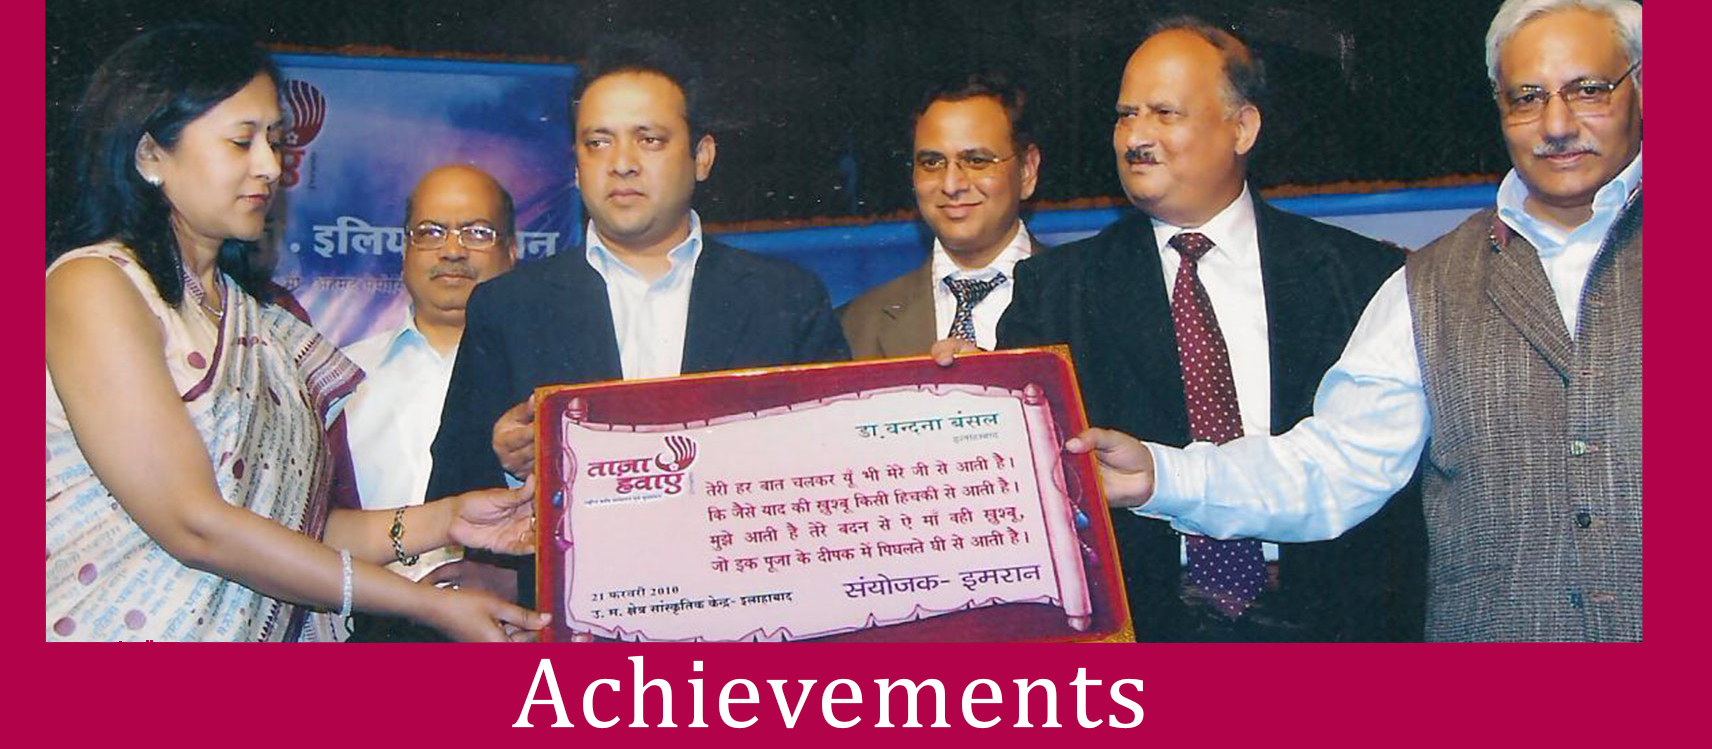
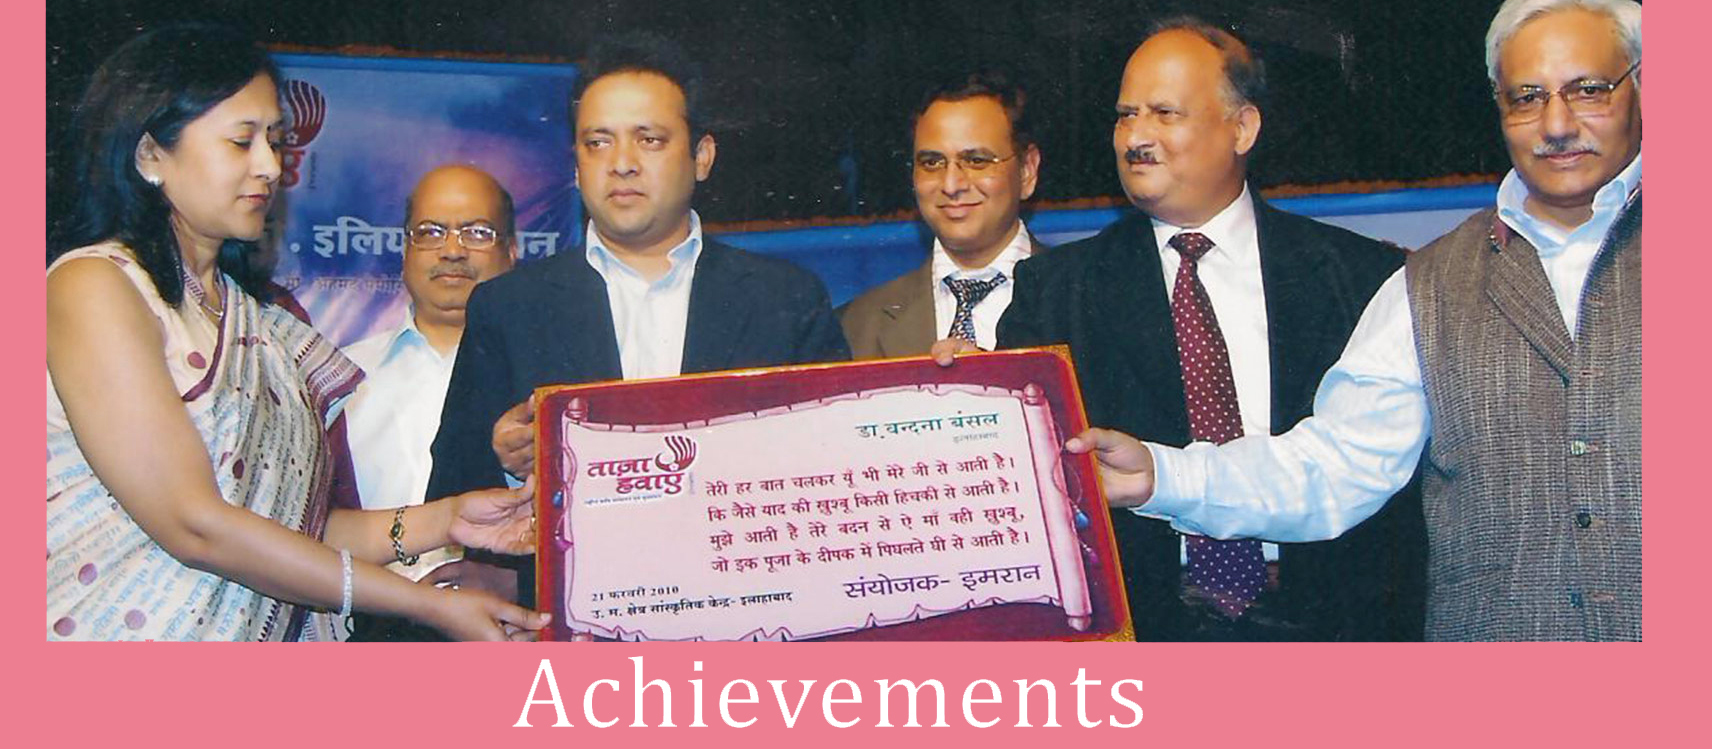
ff

Changed region(s): [[0.0, 0.0, 1.0, 1.0]]

diff --git a/src/Pages/AboutUs/OurFounders.jsx b/src/Pages/AboutUs/OurFounders.jsx
@@ -16,46 +16,46 @@ import { AiOutlineProfile } from "react-icons/ai";
 
 const OurFounders = () => {
   const [data, setdata] = useState('')
-  
-      return (
-        <div>
+
+  return (
+    <div>
       {/* <About /> */}
-       <div className="container mx-auto flex px-3 py- md:flex-row flex-col items-center">
-                          <div className="pt-5 pb-0 md:w-96 w-5/6 ">
-                              <img className=" object-cover object-center roundedxl w-96" alt="hero" src={aboutvandana} />
-                          </div>
-                          <div className="lg:flex-grow md:rounded-r-2xl my-2 md:w-1/2 py-3 pr-1 md:bg-rose-50 lg:pl-8 md:pl-8 flex flex-col md:items-start text-center md:text-left items-center ">
-                              <h1 className="title-font sm:text-3xl text-2xl md:mb-2 font-medium text-black"> Dr. Vandana Bansal
-                              </h1>
-      
-                              <div className='flex'>
-                                  <a href="https://www.instagram.com/drvandanabansal_gynaecologist/" target='_blank'>
-                              <FaInstagram className='m-2 md:text-whit text-rose-700 text-xl' />
-                                  </a>
-                              <a href="https://www.facebook.com/vandana.bansal.33" target='_blank'>
-                              <FaFacebook className='m-2 md:text-whie text-rose-700 text-xl'/>
-                              </a>
-                              <a href="https://www.youtube.com/@DrVandanaBansal" target='_blank'>
-                              <FaYoutube className='m-2 md:text-whie text-rose-700 text-xl'/>
-                              </a>
-                              <a href="https://www.linkedin.com/in/dr-vandana-bansal-5916279b/" target='_blank'>
-                              <FaLinkedinIn className='m-2 md:text-wite text-rose-700 text-xl' />
-                              </a>
-                              </div>
-      
-                              <p className="mb-8 md:text-left text-sm leading-relaxed text-black font-semibold text-justify"> DR. VANDANA BANSAL – MBBS, DGO, MS, D.Phil (Gold Medalist) FCGP is one of the renowned and Senior Gynaecologists and Obstetricians of the state of Uttar Pradesh. She is specialized in Laparoscopy and Hysteroscopic Surgery – since 18 years. Besided, she is Director of 500-bedded, multi-speciality Jeevan Jyoti Hospital, Arpit Test Tube Baby Centre & Vandana Women’s Hospital Allahabad. Jeevan Jyoti Hospital has completed 25th years in Oct-2013 Silver Jubilee celebration. <span className='text-rose-700'> know more </span></p>
-                              {/* <div className="flex justify-center">
+      <div className="container mx-auto flex px-3 py- md:flex-row flex-col items-center">
+        <div className="pt-5 pb-0 md:w-96 w-5/6 ">
+          <img className=" object-cover object-center roundedxl w-96" alt="hero" src={aboutvandana} />
+        </div>
+        <div className="lg:flex-grow md:rounded-r-2xl my-2 md:w-1/2 py-3 pr-1 md:bg-rose-50 lg:pl-8 md:pl-8 flex flex-col md:items-start text-center md:text-left items-center ">
+          <h1 className="title-font sm:text-3xl text-2xl md:mb-2 font-medium text-black"> Dr. Vandana Bansal
+          </h1>
+
+          <div className='flex'>
+            <a href="https://www.instagram.com/drvandanabansal_gynaecologist/" target='_blank'>
+              <FaInstagram className='m-2 md:text-whit text-rose-700 text-xl' />
+            </a>
+            <a href="https://www.facebook.com/vandana.bansal.33" target='_blank'>
+              <FaFacebook className='m-2 md:text-whie text-rose-700 text-xl' />
+            </a>
+            <a href="https://www.youtube.com/@DrVandanaBansal" target='_blank'>
+              <FaYoutube className='m-2 md:text-whie text-rose-700 text-xl' />
+            </a>
+            <a href="https://www.linkedin.com/in/dr-vandana-bansal-5916279b/" target='_blank'>
+              <FaLinkedinIn className='m-2 md:text-wite text-rose-700 text-xl' />
+            </a>
+          </div>
+
+          <p className="mb-8 md:text-left text-sm leading-relaxed text-black font-semibold text-justify"> DR. VANDANA BANSAL – MBBS, DGO, MS, D.Phil (Gold Medalist) FCGP is one of the renowned and Senior Gynaecologists and Obstetricians of the state of Uttar Pradesh. She is specialized in Laparoscopy and Hysteroscopic Surgery – since 18 years. Besided, she is Director of 500-bedded, multi-speciality Jeevan Jyoti Hospital, Arpit Test Tube Baby Centre & Vandana Women’s Hospital Allahabad. Jeevan Jyoti Hospital has completed 25th years in Oct-2013 Silver Jubilee celebration. <span className='text-rose-700'> know more </span></p>
+          {/* <div className="flex justify-center">
                                   <Link to='bookappointment'>
                                       <button className="inline-flex text-white bg-rose-700 border-0 py-2 px-6 focus:outline-none hover:bg-rose-800 rounded text-sm">Book Appoinment</button>
                                   </Link>
                               </div> */}
-                          </div>
-                      </div>
-      <div className='flex mx-auto w-4/6 gap-2'>
+        </div>
+      </div>
+      <div className='flex flex-wrap mx-auto w-4/6 gap-2'>
 
-        <div className="w-72 m-10 text-gray-900 bg-white border border-gray-200 rounded-lg dark:bg-gray-700 dark:border-gray-600 dark:text-white">
+        <div className="md:w-72 m-10 h-fit text-gray-900 bg-white border border-gray-200 rounded-lg dark:bg-gray-700 dark:border-gray-600 dark:text-white">
           {/* {                    details.map((index, key) => ( */}
-          <button type="button" onClick={(e) => { setdata(e.target.value) }} value='introduction' className="relative inline-flex items-center w-full px-4 py-2 text-sm font-medium border-b border-gray-200 rounded-t-lg hover:bg-gray-100 hover:text-blue-700 focus:z-10 focus:ring-2 focus:ring-blue-700 focus:text-blue-700 dark:border-gray-600 dark:hover:bg-gray-600 dark:hover:text-white dark:focus:ring-gray-500 dark:focus:text-white">
+          <button type="button" onClick={(e) => { setdata(e.target.value) }} value='introduction' className="relative inline-flex items-center w-full px-4 py-2 text-sm font-medium border-b border-gray-200 rounded-t-lg hover:bg-gray-100 hover:text-rose-700 focus:z-10 focus:ring-2 focus:ring-rose-200 focus:text-rose-700 dark:border-gray-600 dark:hover:bg-gray-600 dark:hover:text-white dark:focus:ring-gray-500 dark:focus:text-white">
             <svg className="w-3 h-3 me-2.5" aria-hidden="true" xmlns="http://www.w3.org/2000/svg" fill="currentColor" viewBox="0 0 20 20">
               <path d="M10 0a10 10 0 1 0 10 10A10.011 10.011 0 0 0 10 0Zm0 5a3 3 0 1 1 0 6 3 3 0 0 1 0-6Zm0 13a8.949 8.949 0 0 1-4.951-1.488A3.987 3.987 0 0 1 9 13h2a3.987 3.987 0 0 1 3.951 3.512A8.949 8.949 0 0 1 10 18Z" />
             </svg>
@@ -63,7 +63,7 @@ const OurFounders = () => {
           </button>
           {/* ))                } */}
           <button type="button" onClick={(e) => { setdata(e.target.value) }} value='profile' className="relative inline-flex items-center w-full px-4 py-2 text-sm font-medium border-b border-gray-200 hover:bg-gray-100 hover:text-blue-700 focus:z-10 focus:ring-2 focus:ring-blue-700 focus:text-blue-700 dark:border-gray-600 dark:hover:bg-gray-600 dark:hover:text-white dark:focus:ring-gray-500 dark:focus:text-white">
-          <AiOutlineProfile className="w-3 h-3 me-2.5" />
+            <AiOutlineProfile className="w-3 h-3 me-2.5" />
             Profile
           </button>
           <button type="button" onClick={(e) => { setdata(e.target.value) }} value='objectives' className="relative inline-flex items-center w-full px-4 py-2 text-sm font-medium border-b border-gray-200 hover:bg-gray-100 hover:text-blue-700 focus:z-10 focus:ring-2 focus:ring-blue-700 focus:text-blue-700 dark:border-gray-600 dark:hover:bg-gray-600 dark:hover:text-white dark:focus:ring-gray-500 dark:focus:text-white">
@@ -71,42 +71,42 @@ const OurFounders = () => {
               <path d="M18 4H16V9C16 10.0609 15.5786 11.0783 14.8284 11.8284C14.0783 12.5786 13.0609 13 12 13H9L6.846 14.615C7.17993 14.8628 7.58418 14.9977 8 15H11.667L15.4 17.8C15.5731 17.9298 15.7836 18 16 18C16.2652 18 16.5196 17.8946 16.7071 17.7071C16.8946 17.5196 17 17.2652 17 17V15H18C18.5304 15 19.0391 14.7893 19.4142 14.4142C19.7893 14.0391 20 13.5304 20 13V6C20 5.46957 19.7893 4.96086 19.4142 4.58579C19.0391 4.21071 18.5304 4 18 4Z" fill="currentColor" />
               <path d="M12 0H2C1.46957 0 0.960859 0.210714 0.585786 0.585786C0.210714 0.960859 0 1.46957 0 2V9C0 9.53043 0.210714 10.0391 0.585786 10.4142C0.960859 10.7893 1.46957 11 2 11H3V13C3 13.1857 3.05171 13.3678 3.14935 13.5257C3.24698 13.6837 3.38668 13.8114 3.55279 13.8944C3.71889 13.9775 3.90484 14.0126 4.08981 13.996C4.27477 13.9793 4.45143 13.9114 4.6 13.8L8.333 11H12C12.5304 11 13.0391 10.7893 13.4142 10.4142C13.7893 10.0391 14 9.53043 14 9V2C14 1.46957 13.7893 0.960859 13.4142 0.585786C13.0391 0.210714 12.5304 0 12 0Z" fill="currentColor" />
             </svg>
-           Objectives
+            Objectives
           </button>
           <button type="button" onClick={(e) => { setdata(e.target.value) }} value='research' className="relative inline-flex items-center w-full px-4 py-2 text-sm font-medium border-b border-gray-200 rounded-t-lg hover:bg-gray-100 hover:text-blue-700 focus:z-10 focus:ring-2 focus:ring-blue-700 focus:text-blue-700 dark:border-gray-600 dark:hover:bg-gray-600 dark:hover:text-white dark:focus:ring-gray-500 dark:focus:text-white">
-          <AiOutlineGlobal className="w-3 h-3 me-2.5" />
+            <AiOutlineGlobal className="w-3 h-3 me-2.5" />
             Researches
           </button>
           <button type="button" onClick={(e) => { setdata(e.target.value) }} value='achievements' className="relative inline-flex items-center w-full px-4 py-2 text-sm font-medium border-b border-gray-200 rounded-t-lg hover:bg-gray-100 hover:text-blue-700 focus:z-10 focus:ring-2 focus:ring-blue-700 focus:text-blue-700 dark:border-gray-600 dark:hover:bg-gray-600 dark:hover:text-white dark:focus:ring-gray-500 dark:focus:text-white">
-          <GiPodiumWinner  className="w-3 h-3 me-2.5"  />
+            <GiPodiumWinner className="w-3 h-3 me-2.5" />
             Major Achievements
           </button>
           <button type="button" onClick={(e) => { setdata(e.target.value) }} value='awards' className="relative inline-flex items-center w-full px-4 py-2 text-sm font-medium border-b border-gray-200 rounded-t-lg hover:bg-gray-100 hover:text-blue-700 focus:z-10 focus:ring-2 focus:ring-blue-700 focus:text-blue-700 dark:border-gray-600 dark:hover:bg-gray-600 dark:hover:text-white dark:focus:ring-gray-500 dark:focus:text-white">
-          <LiaAwardSolid className="w-3 h-3 me-2.5" />
+            <LiaAwardSolid className="w-3 h-3 me-2.5" />
             Awards
           </button>
           <button type="button" onClick={(e) => { setdata(e.target.value) }} value='membership' className="relative inline-flex items-center w-full px-4 py-2 text-sm font-medium border-b border-gray-200 rounded-t-lg hover:bg-gray-100 hover:text-blue-700 focus:z-10 focus:ring-2 focus:ring-blue-700 focus:text-blue-700 dark:border-gray-600 dark:hover:bg-gray-600 dark:hover:text-white dark:focus:ring-gray-500 dark:focus:text-white">
-          <MdCardMembership className="w-3 h-3 me-2.5"/>
+            <MdCardMembership className="w-3 h-3 me-2.5" />
             Membership
           </button>
           <button type="button" onClick={(e) => { setdata(e.target.value) }} value='nationalconference' className="relative inline-flex items-center w-full px-4 py-2 text-sm font-medium border-b border-gray-200 rounded-t-lg hover:bg-gray-100 hover:text-blue-700 focus:z-10 focus:ring-2 focus:ring-blue-700 focus:text-blue-700 dark:border-gray-600 dark:hover:bg-gray-600 dark:hover:text-white dark:focus:ring-gray-500 dark:focus:text-white">
-          <GiVideoConference className="w-3 h-3 me-2.5" />
+            <GiVideoConference className="w-3 h-3 me-2.5" />
             National Conrference
           </button>
           <button type="button" onClick={(e) => { setdata(e.target.value) }} value='internationalconference' className="relative inline-flex items-center w-full px-4 py-2 text-sm font-medium border-b border-gray-200 rounded-t-lg hover:bg-gray-100 hover:text-blue-700 focus:z-10 focus:ring-2 focus:ring-blue-700 focus:text-blue-700 dark:border-gray-600 dark:hover:bg-gray-600 dark:hover:text-white dark:focus:ring-gray-500 dark:focus:text-white">
-          <GiVideoConference className="w-3 h-3 me-2.5" />
+            <GiVideoConference className="w-3 h-3 me-2.5" />
             International Conference
           </button>
           <button type="button" onClick={(e) => { setdata(e.target.value) }} value='workshop' className="relative inline-flex items-center w-full px-4 py-2 text-sm font-medium border-b border-gray-200 rounded-t-lg hover:bg-gray-100 hover:text-blue-700 focus:z-10 focus:ring-2 focus:ring-blue-700 focus:text-blue-700 dark:border-gray-600 dark:hover:bg-gray-600 dark:hover:text-white dark:focus:ring-gray-500 dark:focus:text-white">
-          <GrWorkshop className="w-3 h-3 me-2.5" />
+            <GrWorkshop className="w-3 h-3 me-2.5" />
             Workshop
           </button>
           <button type="button" onClick={(e) => { setdata(e.target.value) }} value='otherachievements' className="relative inline-flex items-center w-full px-4 py-2 text-sm font-medium border-b border-gray-200 rounded-t-lg hover:bg-gray-100 hover:text-blue-700 focus:z-10 focus:ring-2 focus:ring-blue-700 focus:text-blue-700 dark:border-gray-600 dark:hover:bg-gray-600 dark:hover:text-white dark:focus:ring-gray-500 dark:focus:text-white">
-          <GiPodiumWinner  className="w-3 h-3 me-2.5"  />
+            <GiPodiumWinner className="w-3 h-3 me-2.5" />
             Other Achievements
           </button>
           <button type="button" onClick={(e) => { setdata(e.target.value) }} value='visits' className="relative inline-flex items-center w-full px-4 py-2 text-sm font-medium border-b border-gray-200 rounded-t-lg hover:bg-gray-100 hover:text-blue-700 focus:z-10 focus:ring-2 focus:ring-blue-700 focus:text-blue-700 dark:border-gray-600 dark:hover:bg-gray-600 dark:hover:text-white dark:focus:ring-gray-500 dark:focus:text-white">
-          <FaLocationArrow className="w-3 h-3 me-2.5" />
+            <FaLocationArrow className="w-3 h-3 me-2.5" />
             International Visits
           </button>
         </div>
@@ -115,7 +115,7 @@ const OurFounders = () => {
           <AboutDrVandanaBansal data={data} />
         </div>
       </div>
-      <Outlet />
+      {/* <Outlet /> */}
     </div>
   )
 }

diff --git a/src/Component/Footer.jsx b/src/Component/Footer.jsx
@@ -13,10 +13,10 @@ const Footer = () => {
     <>
       <footer className="text-gray-600 body-font">
         <hr className="text-gray-300" />
-        <div className="container flex flex-wrap px-5 py-16 mx-auto ">
+        <div className="container flex flex-wrap px-5 py-12 mx-auto ">
           {/* <div className="flex flex-wrap md:text-left order-first"> */}
 
-          <div className="lg:w-1/4 md:w-1/2 w-full px-10">
+          <div className="lg:w-1/4 md:w-1/2 w-full pr-16">
             <h1 className="font-bold text-2xl my-10">Arpi Test Tube Baby Centre</h1>
             <p>Arpit Test Tube Baby Centre is situasacrifice after creating thh falls once every 12 years, is always held in Prayagraj. An entire sea of humanity descends upon the riverside town during this time. </p>
             <div className="flex m-auto my-4">
@@ -48,7 +48,7 @@ const Footer = () => {
           </div>
 
           <div className="lg:w-1/4 md:w-1/2 w-full px-4">
-            <h2 className="title-font font-medium text-black tracking-widest text-lg mb-3">
+            <h2 className="font-bold text-2xl my-10">
               Treatment
             </h2>
             <nav className="list-none mb-10">
@@ -95,7 +95,7 @@ const Footer = () => {
             </nav>
           </div>
           <div className="lg:w-1/4 md:w-1/2 w-full px-4">
-            <h2 className="title-font font-medium text-black tracking-widest text-lg mb-3">
+            <h2 className="font-bold text-2xl my-10">
               Important Links
             </h2>
             <nav className="list-none mb-10">
@@ -122,7 +122,7 @@ const Footer = () => {
             </nav>
           </div>
           <div className="lg:w-1/4 md:w-1/2 w-full px-1">
-            <h2 className="title-font font-medium text-black tracking-widest text-lg mb-3">
+            <h2 className="font-bold text-2xl my-10">
               Contact Info
             </h2>
             <nav className="list-none mb-10">
@@ -152,7 +152,7 @@ const Footer = () => {
             {/* <a className="text-white flex title-font font-medium items-center md:justify-start justify-center">
               <span className="ml-3 text-xl">Best IVF Centre in Prayagraj</span>
             </a> */}
-            <p className="text-sm text-gray-500 sm:ml-6 sm:mt-0">
+            <p className="text-sm text-gray-700 sm:ml-6 sm:mt-0">
               © 2024 All rights reserved by Arpit Test Tube Baby Centre
             </p>
           </div>

diff --git a/src/Component/Head.jsx b/src/Component/Head.jsx
@@ -1,22 +1,24 @@
 import React, { useEffect, useState } from "react";
 // import { Link } from "react-router-dom";
 import "aos/dist/aos.css";
-import Banner02Final from "../assets/Banner02Final.png";
+// import Banner02Final from "../assets/Banner02Final.png";
+import BannerMain from "../assets/Banners/BannerMain.jpg";
 import BannerFinal from "../assets/BannerFinal.png";
-import banner06 from "../assets/banner06.png";
-import slide04 from "../assets/slide04.jpg";
+// import banner06 from "../assets/banner06.png";
+import slide041 from "../assets/slide041.jpg";
 import slide051 from "../assets/slide051.jpg";
 import "../Style/Style.css";
 
 const Head = () => {
   const images = [
+    BannerMain,
     BannerFinal,
-    banner06,
-    Banner02Final,
-    slide04,
-    slide051
+    slide051,
+    slide041,
+    // Banner02Final,
   ];
-
+  
+  // banner06,
   const [currentIndex, setCurrentIndex] = useState(0);
 
   // Function to go to the next image
@@ -78,7 +80,7 @@ const Head = () => {
           {images.map((_, index) => (
             <button
               key={index}
-              className={`w-2 h-2 rounded-full ${currentIndex === index ? 'bg-rose-700' : 'bg-white'}`}
+              className={`w-2 h-2 rounded-full ${currentIndex === index ? 'bg-rose-400' : 'bg-gray-300'}`}
               onClick={() => setCurrentIndex(index)}
             />
           ))}

diff --git a/src/App.jsx b/src/App.jsx
@@ -1,14 +1,14 @@
 import './App.css'
 import { Outlet }
   from 'react-router-dom'
-import Head from './Component/Head.jsx'
-import About from './Component/About.jsx'
-import Contact from './Component/Contact.jsx'
-import Treatements from './Component/Treatements.jsx'
-import GoogleReview from './Component/GoogleReview.jsx'
+// import Head from './Component/Head.jsx'
+// import About from './Component/About.jsx'
+// import Contact from './Component/Contact.jsx'
+// import Treatements from './Component/Treatements.jsx'
+// import GoogleReview from './Component/GoogleReview.jsx'
 import { FAQ } from './Component/FAQ.jsx'
 import NavigationB from './Component/NavigationB.jsx'
-import Home from './Component/Home.jsx'
+// import Home from './Component/Home.jsx'
 import Footer from './Component/Footer.jsx'
 // import Stats from './Component/Stats.jsx'
 
@@ -17,6 +17,9 @@ function App() {
 
   return (
     <>
+    {/* ff918d hexa color code for webstie 
+    74cef0 sky blue color for website
+     */}
       <NavigationB />
       <div className=" fixed top-52 -rotate-90 -ml-16 z-50">
         <a href="bookappointment">

diff --git a/src/Component/Rewards.jsx b/src/Component/Rewards.jsx
@@ -9,12 +9,12 @@ import qqq1 from '../assets/Banners/qqq1.jpg';;
 const Rewards = () => {
   return (
     <>
-      <div className="-mb-80">
+      <div className="-mb-16 md:-mb-80">
         <img src={qqq1} alt="" />
       </div>
-      <div className="flex text-xs justify-center flex-wrap bg-transparent lg:w-11/12 mx-auto mt-10">
+      <div className="flex text-xs justify-center flex-wrap bg-transparent lg:w-11/12 mx-auto lg:mt-10">
 
-        <Link to="guestspeaker" className="bg-white m-2 h-auto rounded-2xl shadow-xl shadow-slate-300 overflow-hidden max-w-72">
+        <Link to="ivflab" className="bg-white m-2 h-auto rounded-2xl shadow-xl shadow-slate-300 overflow-hidden max-w-72">
           <img
             src={lab0}
             alt="Mountain"

diff --git a/src/Pages/AboutUs/AboutDrVandanaBansal.jsx b/src/Pages/AboutUs/AboutDrVandanaBansal.jsx
@@ -100,7 +100,7 @@ const AboutDrVandanaBansal = ({ data }) => {
                                                             ) :
                                                                 (
                                                                     <div>
-                                                                        <p className='my-2'>---------------h-----</p>
+                                                                        <p className='my-2'>Meet Dr. Vandana Bansal</p>
                                                                     </div>
                                                                 )
             }

diff --git a/src/main.jsx b/src/main.jsx
@@ -267,6 +267,7 @@ import PatientReviewVideo from './Pages/Rewards/PatientReviewVideo.jsx'
 import GuestSpeaker from './Pages/Rewards/GuestSpeaker.jsx'
 import NewsPaperCutting from './Pages/NewsPaperCutting.jsx'
 import AboutDrVandanaBansal from './Pages/AboutUs/AboutDrVandanaBansal.jsx'
+import IVFLab from './Pages/Rewards/IVFLab.jsx'
 
 
 const router = createBrowserRouter([
@@ -317,6 +318,11 @@ const router = createBrowserRouter([
       {
         path: 'patientsreview',
         element: <PatientReviewVideo />,
+        children: []
+      },
+      {
+        path: 'ivflab',
+        element: <IVFLab />,
         children: []
       },
       {

diff --git a/src/Pages/Rewards/IVFLab.jsx b/src/Pages/Rewards/IVFLab.jsx
@@ -1,0 +1,20 @@
+import React from 'react'
+import IVFvideo from '../../assets/videos/IVFvideo.mp4';
+import Gallery from '../Gallery';
+
+const IVFLab = () => {
+  return (
+   <div className="w-full md:px-52 py-10 bg-red-50 my-5">
+         <video className="h-11/12 m-auto w-screen border-rose-50 " controls>
+           <source
+             src={IVFvideo}
+             type="video/mp4"
+           />
+           Your browser does not support the video tag.
+         </video>
+         <Gallery/>
+       </div>
+  )
+}
+
+export default IVFLab

diff --git a/src/Component/NavigationB.jsx b/src/Component/NavigationB.jsx
@@ -45,7 +45,7 @@ function NavigationB() {
   };
   return (
     <>
-      <div className=" hidden md:flex flex-wrap z-50 justify-between py-1 px-3 bg-pink-800">
+      <div className=" hidden md:flex flex-wrap z-50 justify-between py-1 px-3 bg-rose-400">
         <div>
           <span className="pr-8 text-sm text-white">
             <MdOutlineMail className="inline" /> Phone: +91 6390103002
